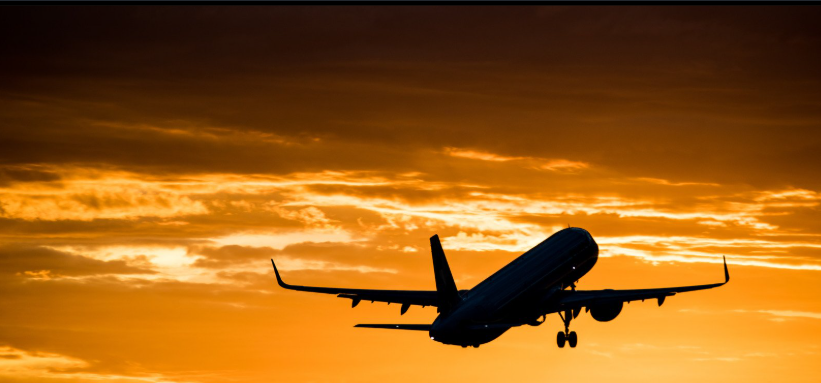
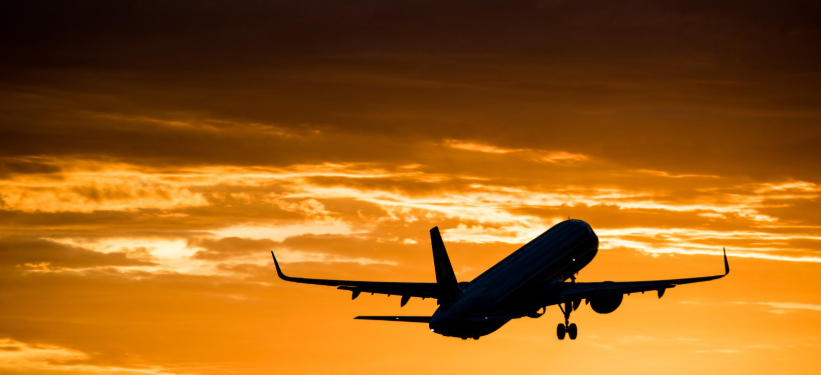
Edited Site Images
Replaced Site Logo Image in title.
Cropped index sunset image to make it look better.

diff --git a/loyalty.html b/loyalty.html
@@ -17,7 +17,7 @@
     <script src="https://cdn.jsdelivr.net/npm/bootstrap@5.3.8/dist/js/bootstrap.bundle.min.js"
         integrity="sha384-FKyoEForCGlyvwx9Hj09JcYn3nv7wiPVlz7YYwJrWVcXK/BmnVDxM+D2scQbITxI"
         crossorigin="anonymous"></script>
-    <link rel="icon" href="./img/dusty.ico" type="image/x-icon"/>
+    <link rel="icon" href="./img/navbar-logo.ico" type="image/x-icon"/>
     <title>Twilight Airlines - Loyalty Program</title>
 </head>
 

diff --git a/about.html b/about.html
@@ -17,7 +17,7 @@
     <script src="https://cdn.jsdelivr.net/npm/bootstrap@5.3.8/dist/js/bootstrap.bundle.min.js"
         integrity="sha384-FKyoEForCGlyvwx9Hj09JcYn3nv7wiPVlz7YYwJrWVcXK/BmnVDxM+D2scQbITxI"
         crossorigin="anonymous"></script>
-    <link rel="icon" href="./img/dusty.ico" type="image/x-icon"/>
+    <link rel="icon" href="./img/navbar-logo.ico" type="image/x-icon"/>
     <title>Twilight Airline - About Us</title>
 </head>
 

diff --git a/index.html b/index.html
@@ -17,7 +17,7 @@
     <script src="https://cdn.jsdelivr.net/npm/bootstrap@5.3.8/dist/js/bootstrap.bundle.min.js"
         integrity="sha384-FKyoEForCGlyvwx9Hj09JcYn3nv7wiPVlz7YYwJrWVcXK/BmnVDxM+D2scQbITxI"
         crossorigin="anonymous"></script>
-    <link rel="icon" href="./img/dusty.ico" type="image/x-icon"/>
+    <link rel="icon" href="./img/navbar-logo.ico" type="image/x-icon"/>
     <title>Twilight Airline</title>
 </head>
 

diff --git a/fleet.html b/fleet.html
@@ -18,7 +18,7 @@
         integrity="sha384-FKyoEForCGlyvwx9Hj09JcYn3nv7wiPVlz7YYwJrWVcXK/BmnVDxM+D2scQbITxI"
         crossorigin="anonymous"></script>
     <title>Twilight Airline - About Us</title>
-    <link rel="icon" href="./img/dusty.ico" type="image/x-icon"/>
+    <link rel="icon" href="./img/navbar-logo.ico" type="image/x-icon"/>
 </head>
 
 <body>
